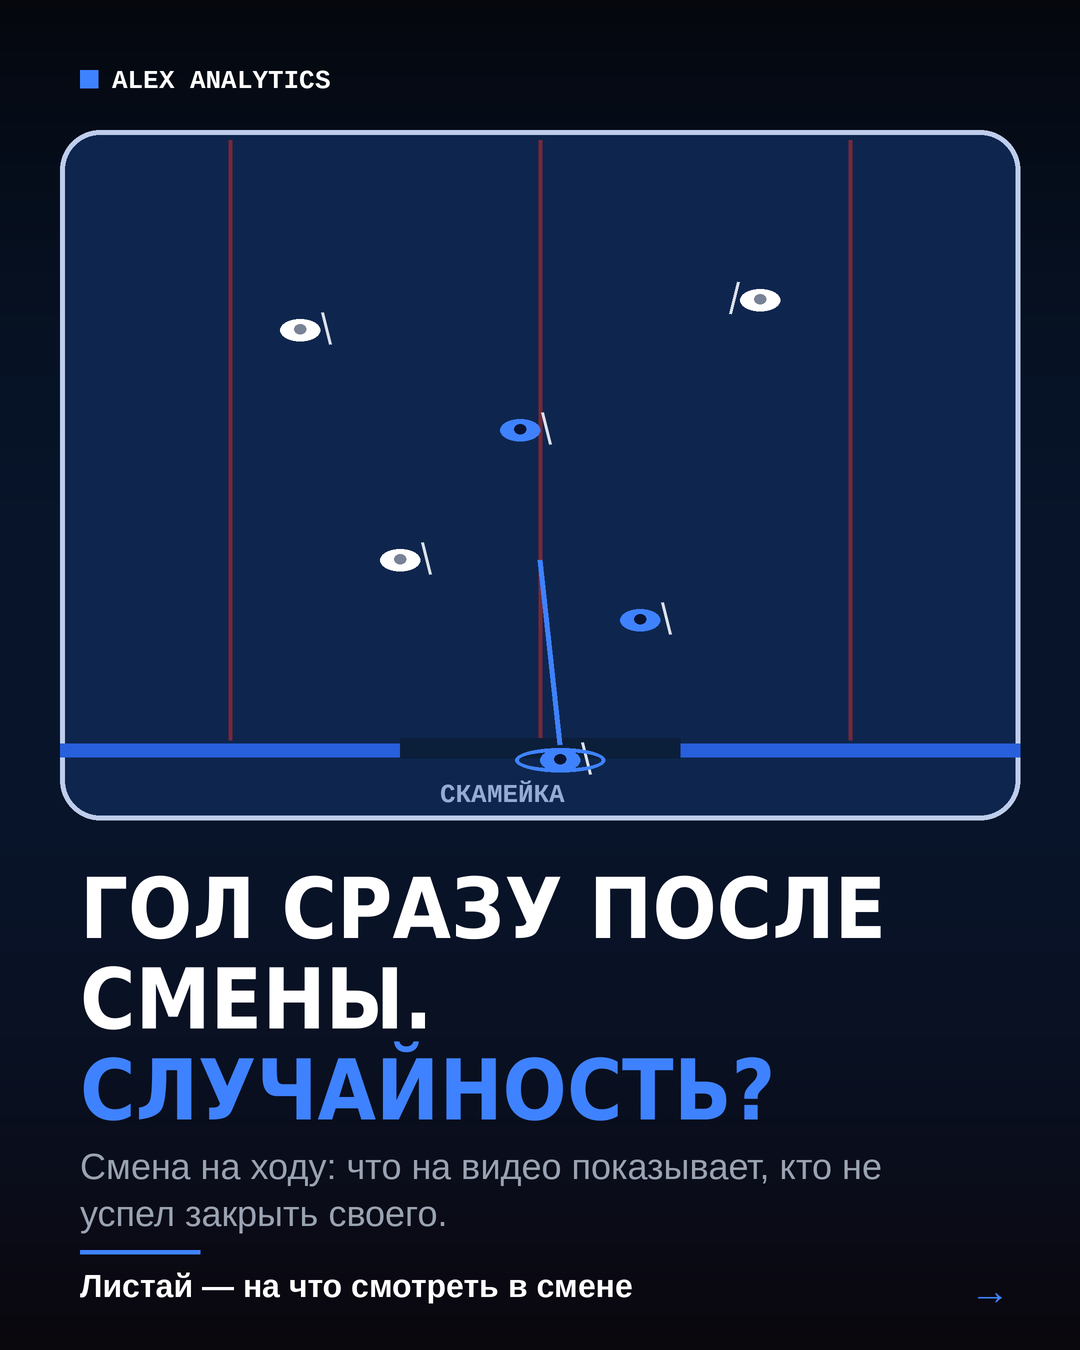
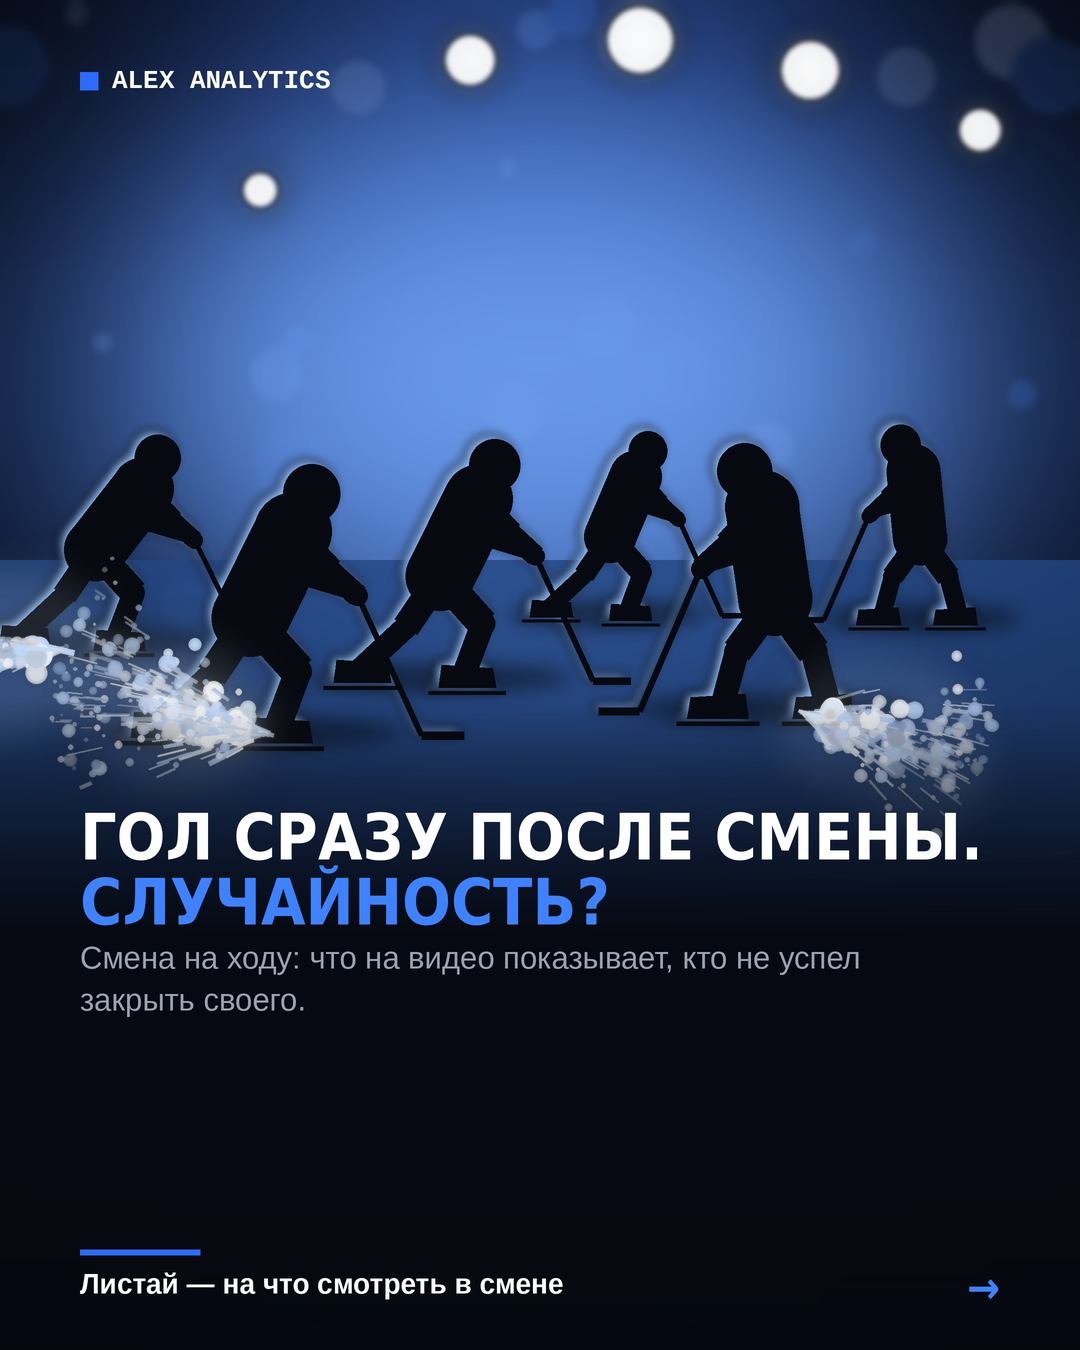
Smena post v2: silhouette cover, puck CTA, no rink schemes

diff --git a/scripts/make_post_v2.py b/scripts/make_post_v2.py
@@ -1,0 +1,261 @@
+import sys
+sys.argv = ["x"]
+exec(open('/home/claude/build3.py').read().split("# ================= 1: cover =================")[0].replace('OUT = "/mnt/user-data/outputs/alex_analytics_carousel_03"', 'OUT = "/home/claude/hockey-covers/posts/2026-10-17_smena"'))
+import math, random
+from PIL import ImageChops
+
+def spray(img, origin, ang_deg, spread_deg, n, lmin, lmax, seed=5, glow=True):
+    random.seed(seed)
+    layer = Image.new("RGBA", img.size, (0, 0, 0, 0))
+    ld = ImageDraw.Draw(layer)
+    ox, oy = origin
+    for _ in range(n):
+        a = math.radians(ang_deg + random.gauss(0, spread_deg / 2.4))
+        dist = (lmin + (lmax - lmin) * random.random() ** 1.6)
+        x = ox + math.cos(a) * dist
+        y = oy + math.sin(a) * dist - 0.0006 * dist * dist
+        size = random.choice([2, 3, 4, 5, 7, 10]) * (1.2 - 0.6 * dist / lmax)
+        alpha = int(random.randint(110, 255) * (1 - 0.55 * dist / lmax))
+        col = random.choice([(255, 255, 255), (230, 241, 255), (200, 222, 255)])
+        if random.random() < 0.35:
+            L = random.uniform(10, 38)
+            ld.line([P((x, y)), P((x - math.cos(a) * L, y - math.sin(a) * L))], fill=col + (alpha,), width=sc(max(2, size * 0.6)))
+        else:
+            ld.ellipse([P((x - size, y - size)), P((x + size, y + size))], fill=col + (alpha,))
+    cloud = Image.new("RGBA", img.size, (0, 0, 0, 0))
+    cd = ImageDraw.Draw(cloud)
+    for _ in range(26):
+        a = math.radians(ang_deg + random.gauss(0, spread_deg / 3))
+        dist = random.uniform(lmin, lmax * 0.7)
+        x = ox + math.cos(a) * dist; y = oy + math.sin(a) * dist
+        r = random.uniform(30, 90)
+        cd.ellipse([P((x - r, y - r)), P((x + r, y + r))], fill=(220, 236, 255, random.randint(18, 46)))
+    cloud = cloud.filter(ImageFilter.GaussianBlur(sc(22)))
+    img.paste(cloud, (0, 0), cloud)
+    soft = layer.filter(ImageFilter.GaussianBlur(sc(2.2)))
+    if glow:
+        g = layer.filter(ImageFilter.GaussianBlur(sc(14)))
+        img.paste(g, (0, 0), g)
+    img.paste(soft, (0, 0), soft)
+    img.paste(layer, (0, 0), layer)
+
+def puck(img, c, r=92, tilt=0.42):
+    cx, cy = c
+    th = r * 0.55
+    sh = Image.new("RGBA", img.size, (0, 0, 0, 0))
+    sd = ImageDraw.Draw(sh)
+    sd.ellipse([P((cx - r * 1.15, cy + th * 0.55)), P((cx + r * 1.15, cy + th * 1.5))], fill=(0, 0, 0, 190))
+    sh = sh.filter(ImageFilter.GaussianBlur(sc(16)))
+    img.paste(sh, (0, 0), sh)
+    d = ImageDraw.Draw(img, "RGBA")
+    ry = r * tilt
+    # side
+    for i in range(int(th)):
+        t = i / th
+        col = (int(18 - 8 * t), int(20 - 8 * t), int(26 - 8 * t))
+        d.ellipse([P((cx - r, cy + i - ry)), P((cx + r, cy + i + ry))], fill=col + (255,))
+    # top
+    d.ellipse([P((cx - r, cy - ry)), P((cx + r, cy + ry))], fill=(26, 28, 36, 255))
+    d.ellipse([P((cx - r * 0.93, cy - ry * 0.93)), P((cx + r * 0.93, cy + ry * 0.93))], fill=(12, 13, 18, 255))
+    # rim light
+    d.arc([P((cx - r, cy - ry)), P((cx + r, cy + ry))], 200, 340, fill=(140, 180, 255, 220), width=sc(3))
+    d.arc([P((cx - r, cy + th - ry)), P((cx + r, cy + th + ry))], 20, 160, fill=(70, 110, 190, 150), width=sc(3))
+    # specular band on top
+    sp = Image.new("RGBA", img.size, (0, 0, 0, 0))
+    spd = ImageDraw.Draw(sp)
+    spd.ellipse([P((cx - r * 0.55, cy - ry * 0.7)), P((cx + r * 0.2, cy - ry * 0.05))], fill=(150, 190, 255, 70))
+    sp = sp.filter(ImageFilter.GaussianBlur(sc(6)))
+    img.paste(sp, (0, 0), sp)
+    return ImageDraw.Draw(img, "RGBA")
+
+def motion_streaks(img, c, n=26, length=420, ang=190, seed=3):
+    random.seed(seed)
+    layer = Image.new("RGBA", img.size, (0, 0, 0, 0))
+    ld = ImageDraw.Draw(layer)
+    for _ in range(n):
+        dy = random.uniform(-26, 26)
+        L = random.uniform(120, length)
+        x0, y0 = c[0] + random.uniform(60, 110), c[1] + dy
+        a = math.radians(ang + random.uniform(-4, 4))
+        ld.line([P((x0, y0)), P((x0 + math.cos(a) * L, y0 + math.sin(a) * L))], fill=(170, 205, 255, random.randint(40, 120)), width=sc(random.choice([2, 3, 4])))
+    layer = layer.filter(ImageFilter.GaussianBlur(sc(2)))
+    img.paste(layer, (0, 0), layer)
+
+def ice_floor(img, y_top):
+    m = Image.new("L", img.size, 0)
+    md = ImageDraw.Draw(m)
+    for y in range(sc(y_top - 260), sc(H)):
+        t = (y - sc(y_top - 260)) / sc(H - y_top + 260)
+        md.line([(0, y), (sc(W), y)], fill=int(95 * math.sin(min(1, t * 1.6) * math.pi / 2) * (1 - t) ** 0.6))
+    img.paste(Image.new("RGB", img.size, (60, 110, 190)), (0, 0), m)
+
+def blade(img, tipx, tipy):
+    layer = Image.new("RGBA", img.size, (0, 0, 0, 0))
+    ld = ImageDraw.Draw(layer)
+    pts = [(tipx - 360, tipy + 30), (tipx, tipy - 18), (tipx + 40, tipy - 4), (tipx + 40, tipy + 28), (tipx - 360, tipy + 120)]
+    ld.polygon([P(p) for p in pts], fill=(18, 20, 28, 255))
+    ld.line([P((tipx - 360, tipy + 34)), P((tipx, tipy - 14))], fill=(120, 165, 240, 230), width=sc(3))
+    ld.rectangle([P((tipx - 190, tipy + 10)), P((tipx - 120, tipy + 74))], fill=(235, 240, 250, 200))
+    img.paste(layer, (0, 0), layer)
+
+def chain(dr, pts, widths, fill):
+    for (a, b, w) in zip(pts[:-1], pts[1:], widths):
+        dr.line([P(a), P(b)], fill=fill, width=sc(w))
+    for p, w in zip(pts, widths + [widths[-1]]):
+        dr.ellipse([P((p[0] - w / 2, p[1] - w / 2)), P((p[0] + w / 2, p[1] + w / 2))], fill=fill)
+
+def skater(dr, o, fill, head, shoulders, hips, near_leg, far_leg, near_arm, far_arm, stick, torso_w=88, face=1):
+    ox, oy = o
+    T = lambda p: (p[0] + ox, p[1] + oy)
+    # far limbs first
+    chain(dr, [T(p) for p in far_leg], [34, 28, 22], fill)
+    chain(dr, [T(p) for p in far_arm], [26, 22, 20], fill)
+    # stick
+    dr.line([P(T(stick[0])), P(T(stick[1]))], fill=fill, width=sc(7))
+    bl = T(stick[1]); dr.line([P(bl), P((bl[0] + 52 * face, bl[1] + 4))], fill=fill, width=sc(10))
+    # torso
+    chain(dr, [T(shoulders), T(hips)], [torso_w], fill)
+    # near limbs
+    chain(dr, [T(p) for p in near_leg], [38, 30, 24], fill)
+    chain(dr, [T(p) for p in near_arm], [30, 25, 22], fill)
+    # head + helmet
+    hx, hy = T(head)
+    dr.ellipse([P((hx - 31, hy - 33)), P((hx + 31, hy + 31))], fill=fill)
+    # skates
+    for leg in (near_leg, far_leg):
+        ax, ay = T(leg[-1])
+        dr.polygon([P((ax - 26 * face, ay - 14)), P((ax + 36 * face, ay - 10)), P((ax + 40 * face, ay + 14)), P((ax - 30 * face, ay + 14))], fill=fill)
+        dr.line([P((ax - 40 * face, ay + 20)), P((ax + 50 * face, ay + 20))], fill=fill, width=sc(5))
+
+
+def skater2(dr, hip, d, lean, k, stride, fill, stick_blade=True, stance="skate"):
+    hx, hy = hip
+    L = 105 * k
+    sh = (hx + d * math.sin(lean) * L, hy - math.cos(lean) * L)
+    head = (sh[0] + d * 20 * k, sh[1] - 40 * k)
+    if stance == "skate":
+        legs_near = [(hx, hy), (hx + d * 52 * k * stride, hy + 58 * k), (hx + d * 28 * k * stride, hy + 122 * k)]
+        legs_far = [(hx, hy), (hx - d * 42 * k * stride, hy + 62 * k), (hx - d * 100 * k * stride, hy + 116 * k)]
+    else:  # backward / wide defensive stance
+        legs_near = [(hx, hy), (hx + 44 * k, hy + 60 * k), (hx + 60 * k, hy + 122 * k)]
+        legs_far = [(hx, hy), (hx - 44 * k, hy + 60 * k), (hx - 60 * k, hy + 122 * k)]
+    chain(dr, legs_far, [34 * k, 28 * k, 22 * k], fill)
+    elbow_f = (sh[0] + d * 12 * k, sh[1] + 48 * k)
+    hand_f = (sh[0] + d * 58 * k, sh[1] + 62 * k)
+    chain(dr, [sh, elbow_f, hand_f], [26 * k, 22 * k, 20 * k], fill)
+    ground = hy + 122 * k
+    hand = (sh[0] + d * 70 * k, sh[1] + 70 * k)
+    blade = (hand[0] + d * 70 * k, ground + 6 * k)
+    dr.line([P(hand), P(blade)], fill=fill, width=sc(7 * k))
+    dr.line([P(blade), P((blade[0] + d * 46 * k, blade[1]))], fill=fill, width=sc(9 * k))
+    chain(dr, [hip, sh], [84 * k], fill)
+    chain(dr, legs_near, [38 * k, 30 * k, 24 * k], fill)
+    elbow_n = (sh[0] + d * 40 * k, sh[1] + 42 * k)
+    chain(dr, [sh, elbow_n, hand], [30 * k, 25 * k, 22 * k], fill)
+    dr.ellipse([P((head[0] - 31 * k, head[1] - 33 * k)), P((head[0] + 31 * k, head[1] + 31 * k))], fill=fill)
+    for leg in (legs_near, legs_far):
+        ax, ay = leg[-1]
+        dr.polygon([P((ax - 26 * k * d, ay - 14 * k)), P((ax + 36 * k * d, ay - 10 * k)), P((ax + 40 * k * d, ay + 14 * k)), P((ax - 30 * k * d, ay + 14 * k))], fill=fill)
+        dr.line([P((ax - 42 * k * d, ay + 20 * k)), P((ax + 52 * k * d, ay + 20 * k))], fill=fill, width=sc(5 * k))
+    return blade
+
+def rush_scene(img):
+    rim = Image.new("RGBA", img.size, (0, 0, 0, 0)); dark = Image.new("RGBA", img.size, (0, 0, 0, 0))
+    rd, dd = ImageDraw.Draw(rim), ImageDraw.Draw(dark)
+    # (hip_x, hip_y, dir, lean, size, stride, stance)
+    cast = [
+        (720, 0, 0, 0, 0, 0, 0),
+    ]
+    G = lambda g, k: g - 122 * k
+    players = [
+        (610, G(612, 0.62), +1, 0.40, 0.62, 1.0, "skate"),   # far winger
+        (440, G(676, 0.82), +1, 0.46, 0.82, 1.0, "skate"),   # puck carrier
+        (920, G(616, 0.64), -1, 0.10, 0.64, 1.0, "def"),     # defender 2 (far)
+        (775, G(706, 0.88), -1, 0.14, 0.88, 1.0, "def"),     # defender 1
+        (250, G(730, 0.92), +1, 0.46, 0.92, 1.0, "skate"),   # near winger
+        (95, G(640, 0.74), +1, 0.66, 0.74, 1.0, "skate"),   # backchecker (trailing)
+    ]
+    blades = []
+    for hx, hy, d, lean, k, stride, st in players:
+        for dr, col in ((rd, (150, 195, 255, 255)),):
+            skater2(dr, (hx, hy), d, lean, k, stride, col, stance="def" if st == "def" else "skate")
+    for hx, hy, d, lean, k, stride, st in players:
+        b = skater2(dd, (hx, hy), d, lean, k, stride, (6, 9, 16, 255), stance="def" if st == "def" else "skate")
+        blades.append(b)
+    glow = rim.filter(ImageFilter.GaussianBlur(sc(5)))
+    shifted = Image.new("RGBA", img.size, (0, 0, 0, 0)); shifted.paste(glow, (sc(-5), sc(-4)))
+    img.paste(shifted, (0, 0), shifted)
+    img.paste(dark, (0, 0), dark)
+    return blades
+
+
+# ================= 1: cover =================
+img = atmosphere(77, (540, 330), beam=False)
+bg = Image.new("L", img.size, 0)
+ImageDraw.Draw(bg).ellipse([P((120, 120)), P((960, 640))], fill=215)
+bg = bg.filter(ImageFilter.GaussianBlur(sc(120)))
+img.paste(Image.new("RGB", img.size, (120, 170, 250)), (0, 0), bg)
+fl = Image.new("L", img.size, 0)
+fld = ImageDraw.Draw(fl)
+for y in range(sc(560), sc(H)):
+    t = (y - sc(560)) / sc(H - 560)
+    fld.line([(0, y), (sc(W), y)], fill=int(205 * (1 - t) ** 0.8))
+img.paste(Image.new("RGB", img.size, (35, 70, 130)), (0, 0), fl)
+for fx, fy, fr in ((470, 60, 26), (810, 70, 30), (980, 130, 22), (640, 40, 34), (260, 190, 18)):
+    fg = Image.new("RGBA", img.size, (0, 0, 0, 0))
+    ImageDraw.Draw(fg).ellipse([P((fx - fr, fy - fr)), P((fx + fr, fy + fr))], fill=(255, 255, 255, 235))
+    fgb = fg.filter(ImageFilter.GaussianBlur(sc(16))); img.paste(fgb, (0, 0), fgb)
+    fgs = fg.filter(ImageFilter.GaussianBlur(sc(3))); img.paste(fgs, (0, 0), fgs)
+# soft ice shadows under skaters
+shd = Image.new("RGBA", img.size, (0, 0, 0, 0))
+sdd = ImageDraw.Draw(shd)
+for cx, gy, w in ((610, 612, 100), (440, 676, 130), (920, 616, 100), (775, 706, 145), (250, 730, 150), (95, 640, 115)):
+    sdd.ellipse([P((cx - w, gy - 12)), P((cx + w, gy + 16))], fill=(0, 0, 0, 120))
+shd = shd.filter(ImageFilter.GaussianBlur(sc(9))); img.paste(shd, (0, 0), shd)
+blades = rush_scene(img)
+spray(img, (270, 735), -170, 34, 420, 30, 220, seed=8)
+spray(img, (800, 712), 20, 28, 380, 30, 200, seed=15, glow=False)
+spray(img, (60, 650), 175, 24, 200, 20, 150, seed=19, glow=False)
+darken(img, 700, 930, 238)
+d = ImageDraw.Draw(img, "RGBA")
+brand(d)
+f1, s1 = fit(["ГОЛ СРАЗУ ПОСЛЕ СМЕНЫ.", "СЛУЧАЙНОСТЬ?"], FH, 920, 150)
+y = 800
+text(d, (80, y), "ГОЛ СРАЗУ ПОСЛЕ СМЕНЫ.", f1, WHITE)
+text(d, (80, y + int(s1 * 1.02)), "СЛУЧАЙНОСТЬ?", f1, BLUE2)
+para(d, 80, y + int(s1 * 2.2), "Смена на ходу: что на видео показывает, кто не успел закрыть своего.",
+     font(FB, 31), GREY, 900, 42)
+d.line([P((80, 1252)), P((200, 1252))], fill=BLUE, width=sc(6))
+text(d, (80, 1268), "Листай — на что смотреть в смене", font(FBB, 28), WHITE)
+text(d, (1000, 1262), "→", font(FH, 44), BLUE2, "ra")
+save(img, "01_cover.png")
+
+
+
+# ===== CTA =====
+img = atmosphere(91, (540, 380), beam=False)
+bgm = Image.new("L", img.size, 0)
+ImageDraw.Draw(bgm).ellipse([P((140, 100)), P((940, 700))], fill=200)
+bgm = bgm.filter(ImageFilter.GaussianBlur(sc(130)))
+img.paste(Image.new("RGB", img.size, (95, 150, 240)), (0, 0), bgm)
+fl = Image.new("L", img.size, 0); fld = ImageDraw.Draw(fl)
+for y in range(sc(640), sc(H)):
+    t = (y - sc(640)) / sc(H - 640); fld.line([(0, y), (sc(W), y)], fill=int(190 * (1 - t) ** 0.8))
+img.paste(Image.new("RGB", img.size, (35, 70, 130)), (0, 0), fl)
+motion_streaks(img, (540, 470), n=30, length=460, ang=190, seed=4)
+spray(img, (700, 520), 10, 30, 300, 30, 220, seed=21)
+puck(img, (540, 470), r=120)
+darken(img, 640, 900, 240)
+d = ImageDraw.Draw(img, "RGBA")
+brand(d)
+f1, s1 = fit(["ХОЧЕШЬ УВИДЕТЬ", "СВОИ СМЕНЫ?"], FH, 920, 110)
+y = 700
+text(d, (80, y), "ХОЧЕШЬ УВИДЕТЬ", f1, WHITE)
+text(d, (80, y + int(s1 * 1.02)), "СВОИ СМЕНЫ?", f1, BLUE2)
+para(d, 80, y + int(s1 * 2.2), "Покажем на видео, где образуются дыры в вашей игре.", font(FB, 31), GREY, 900, 42)
+bx = 80; by = 1060
+fb = font(FBB, 36); tw = d.textlength("Напиши «АНАЛИТИКА» в директ", font=fb) / S
+d.rounded_rectangle([P((bx, by)), P((bx + tw + 80, by + 84))], radius=sc(42), fill=BLUE)
+text(d, (bx + 40, by + 17), "Напиши «АНАЛИТИКА» в директ", fb, WHITE)
+text(d, (80, 1262), "@alex__analytics", font(FBB, 30), GREY)
+save(img, "04_cta.png")
